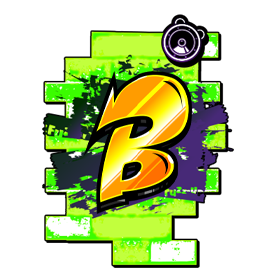
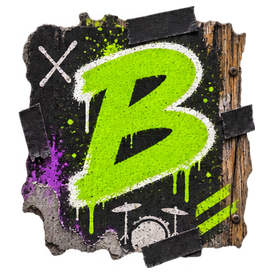
スキンの KONAMI の絵が入っていた画像を自前の素材（スプレーの絵柄）に置き換える
第 1 段階として、GITADORA の絵やロゴが入っていた 23 ファイルを、
画像生成 AI で作った自前の絵に置き換えた。配置・大きさ・ファイル名は
今のままで、コードは変えていない。

- 背景、タイトルのロゴ「DTXmaniaNXT」とメニューの板、シャッター、
  STAGE FAILED の扉、ランク SS〜E、選曲の飾りの紙、ジャケットの代わり、
  並べ替えの「おすすめ」のアイコン
- 読み込みの注意書きと終了の文は自前の文にした
- 使っていなかった KONAMI の絵の入った 8 ファイルを消した
- 生成の指示文・費用は tools/skin/prompts.json、組み立ては
  tools/skin/build_stage1.py（同じ元の絵から同じファイルができる）
- 新しい素材は CC BY 4.0。assets/README.md に範囲と作り方、
  残っている NX v2.0 の素材の扱いを書いた

Claude-Session: https://claude.ai/code/session_0141xt89H6Ka2PYgHr5bWxoa

diff --git a/tools/skin/build_stage1.py b/tools/skin/build_stage1.py
@@ -1,0 +1,185 @@
+"""生成した絵から、第 1 段階のスキンのファイル（assets/skin/Graphics の 23 個）を組む。
+生成の費用はかからない（切り抜き・縮小・文字入れだけ）。
+使い方: python3 tools/skin/build_stage1.py <生成した絵の dir> <生成した絵の dir> assets/skin/Graphics
+生成した絵の名前は prompts.json の name に .png を付けたもの（bg_a.png、ranks.png など）。
+文字は IPA ゴシック（fonts-ipafont-gothic）と Inter で描く。
+"""
+import sys, os
+import numpy as np
+from PIL import Image, ImageFilter, ImageEnhance, ImageDraw, ImageFont
+
+GEN, GEN2, OUT = sys.argv[1:4]
+os.makedirs(os.path.join(OUT, 'SongSelect'), exist_ok=True)
+os.makedirs(os.path.join(OUT, 'Sorting'), exist_ok=True)
+JP = '/usr/share/fonts/truetype/fonts-japanese-gothic.ttf'
+
+def font(path, size):
+    return ImageFont.truetype(path, size)
+
+def en_font(size):
+    import subprocess
+    p = subprocess.run(['fc-match', '-f', '%{file}', 'Inter:semibold'], capture_output=True, text=True).stdout
+    return ImageFont.truetype(p, size)
+
+def save(im, rel, **kw):
+    p = os.path.join(OUT, rel)
+    if rel.endswith('.jpg'):
+        im.convert('RGB').save(p, quality=90, optimize=True)
+    else:
+        im.save(p, optimize=True)
+
+def xy_cut(alpha, thr=48, min_area=400):
+    """透明の地に置かれた部品を、つながった塊ごとに切り出す。上の行から、行の中は左から"""
+    from collections import deque
+    k = 4
+    a = np.asarray(alpha.resize((alpha.width // k, alpha.height // k), Image.BOX)) > thr
+    h, w = a.shape
+    seen = np.zeros_like(a)
+    boxes = []
+    for y in range(h):
+        for x in range(w):
+            if a[y, x] and not seen[y, x]:
+                q = deque([(y, x)]); seen[y, x] = True
+                y0 = y1 = y; x0 = x1 = x; n = 0
+                while q:
+                    cy, cx = q.popleft(); n += 1
+                    y0, y1, x0, x1 = min(y0, cy), max(y1, cy), min(x0, cx), max(x1, cx)
+                    for dy in (-1, 0, 1):
+                        for dx in (-1, 0, 1):
+                            ny, nx = cy + dy, cx + dx
+                            if 0 <= ny < h and 0 <= nx < w and a[ny, nx] and not seen[ny, nx]:
+                                seen[ny, nx] = True; q.append((ny, nx))
+                if n * k * k >= min_area:
+                    boxes.append([x0 * k, y0 * k, (x1 + 1) * k, (y1 + 1) * k])
+    # 大きな塊に含まれる小さな塊（しぶき）は親に吸収する
+    boxes.sort(key=lambda b: -(b[2] - b[0]) * (b[3] - b[1]))
+    big = []
+    for b in boxes:
+        cx, cy = (b[0] + b[2]) / 2, (b[1] + b[3]) / 2
+        host = next((g for g in big if g[0] - 40 <= cx <= g[2] + 40 and g[1] - 40 <= cy <= g[3] + 40), None)
+        if host:
+            host[0], host[1] = min(host[0], b[0]), min(host[1], b[1]); host[2], host[3] = max(host[2], b[2]), max(host[3], b[3])
+        elif (b[2] - b[0]) * (b[3] - b[1]) >= 60000:
+            big.append(b)
+    # 行に分けて並べる
+    big.sort(key=lambda b: b[1])
+    rows = []
+    for b in big:
+        if rows and b[1] < max(r[3] for r in rows[-1]) - 40:
+            rows[-1].append(b)
+        else:
+            rows.append([b])
+    return [tuple(b) for r in rows for b in sorted(r, key=lambda b: b[0])]
+
+def fit(im, w, h):
+    r = min(w / im.width, h / im.height)
+    return im.resize((max(1, round(im.width * r)), max(1, round(im.height * r))), Image.LANCZOS)
+
+def outlined(draw, xy, text, f, fill, stroke=(0, 0, 0), sw=3, anchor='la'):
+    draw.text(xy, text, font=f, fill=fill, stroke_width=sw, stroke_fill=stroke, anchor=anchor)
+
+# 背景
+bg = Image.open(os.path.join(GEN, 'bg_a.png')).convert('RGB').crop((0, 80, 1536, 944)).resize((1280, 720), Image.LANCZOS)
+soft = ImageEnhance.Brightness(bg.filter(ImageFilter.GaussianBlur(2.5))).enhance(0.85)
+dim = ImageEnhance.Brightness(bg.filter(ImageFilter.GaussianBlur(7))).enhance(0.72)
+save(bg, '1_background.jpg'); save(bg, '2_background.jpg')
+for n in ['5_background.jpg', '7_background.jpg', '8_background.jpg']:
+    save(soft, n)
+
+# 部品の切り出し
+parts_im = Image.open(os.path.join(GEN2, 'parts.png')).convert('RGBA')
+pb = xy_cut(parts_im.getchannel('A'))
+assert len(pb) == 4, pb
+strip, poster, plate, badge = [parts_im.crop(b) for b in pb]
+words_im = Image.open(os.path.join(GEN2, 'words.png')).convert('RGBA')
+wb = xy_cut(words_im.getchannel('A'))
+assert len(wb) == 3, wb
+thanks, back_w, random_w = [words_im.crop(b) for b in wb]
+
+# タイトルのロゴとメニューの板（2_background.png は透明の上に重ねる 1 枚）
+logo = Image.open(os.path.join(GEN, 'logo_a.png')).convert('RGBA')
+logo = logo.crop(logo.getchannel('A').point(lambda a: 255 if a > 8 else 0).getbbox())
+t = Image.new('RGBA', (1280, 720), (0, 0, 0, 0))
+L = fit(logo, 1040, 400)
+t.alpha_composite(L, (640 - L.width // 2, 250 - L.height // 2))
+# 板は横長すぎるので、高さを合わせてから真ん中を抜いて左右をつなぐ（木目は横向きなので継ぎ目が目立たない）
+PW, PH = 324, 154
+p = plate.resize((round(plate.width * PH / plate.height), PH), Image.LANCZOS)
+half, blend = PW // 2, 24
+left = p.crop((0, 0, half + blend, PH)); right = p.crop((p.width - half - blend, 0, p.width, PH))
+plate_out = Image.new('RGBA', (PW, PH), (0, 0, 0, 0))
+plate_out.alpha_composite(right, (PW - right.width, 0))
+mask = Image.new('L', (left.width, PH), 255)
+md = ImageDraw.Draw(mask)
+for i in range(blend * 2):
+    md.line([(left.width - 1 - i, 0), (left.width - 1 - i, PH)], fill=int(255 * (i / (blend * 2))))
+plate_out.paste(left, (0, 0), Image.composite(left, Image.new('RGBA', left.size, (0, 0, 0, 0)), mask).getchannel('A'))
+t.alpha_composite(plate_out, (458, 494))
+save(t, '2_background.png')
+
+# ランク（7 枚で 1 組、各 274 角）
+ranks_im = Image.open(os.path.join(GEN2, 'ranks.png')).convert('RGBA')
+rb = xy_cut(ranks_im.getchannel('A'))
+assert len(rb) == 7, rb
+for name, b in zip(['SS', 'S', 'A', 'B', 'C', 'D', 'E'], rb):
+    e = fit(ranks_im.crop(b), 262, 262)
+    c = Image.new('RGBA', (274, 274), (0, 0, 0, 0))
+    c.alpha_composite(e, ((274 - e.width) // 2, (274 - e.height) // 2))
+    save(c, f'8_rank{name}.png')
+
+# シャッター（558×720、上下の端まで絵）
+sh = Image.open(os.path.join(GEN2, 'shutter.png')).convert('RGB')
+h = round(sh.width * 720 / 558)
+sh = sh.crop((0, (sh.height - h) // 2, sh.width, (sh.height - h) // 2 + h)).resize((558, 720), Image.LANCZOS)
+save(sh, '7_shutter.png')
+
+# STAGE FAILED（左右の扉の継ぎ目が x=640）
+fl = Image.open(os.path.join(GEN2, 'failed.png')).convert('RGB').crop((0, 80, 1536, 944)).resize((1280, 720), Image.LANCZOS)
+save(fl, '7_stage_failed.jpg')
+
+# 選曲の左の飾りの紙
+save(strip.resize((362, 134), Image.LANCZOS), 'SongSelect/back1.png')
+save(poster.resize((495, 529), Image.LANCZOS), 'SongSelect/back2.png')
+
+# 並べ替えのアイコン「おすすめ」（90×70。ほかの 9 個は第 3 段階）
+ic = Image.new('RGBA', (90, 70), (0, 0, 0, 0))
+bd = fit(badge, 50, 50)
+ic.alpha_composite(bd, (45 - bd.width // 2, 2))
+d = ImageDraw.Draw(ic)
+outlined(d, (45, 60), 'Recommended', en_font(12), (255, 226, 40), sw=2, anchor='mm')
+save(ic, 'Sorting/recommended.png')
+
+# ジャケットの代わり（400 角）
+def square(box, dark=0.75, blur=1.5):
+    s = bg.crop(box).resize((400, 400), Image.LANCZOS).filter(ImageFilter.GaussianBlur(blur))
+    return ImageEnhance.Brightness(s).enhance(dark).convert('RGBA')
+sq = square((850, 290, 1280, 720), 0.8)
+L = fit(logo, 370, 300); sq.alpha_composite(L, (200 - L.width // 2, 200 - L.height // 2))
+save(sq.convert('RGB'), '5_preimage default.png')
+sq = square((0, 290, 430, 720), 0.7)
+W = fit(back_w, 360, 200); sq.alpha_composite(W, (200 - W.width // 2, 200 - W.height // 2))
+save(sq.convert('RGB'), '5_preimage backbox.png')
+sq = square((850, 0, 1280, 430), 0.7)
+W = fit(random_w, 360, 170); sq.alpha_composite(W, (200 - W.width // 2, 150 - W.height // 2))
+d = ImageDraw.Draw(sq)
+outlined(d, (200, 290), 'カテゴリー内', font(JP, 46), (255, 255, 255), sw=4, anchor='mm')
+save(sq.convert('RGB'), '5_preimage random.png')
+
+# 読み込み（注意書きは自前の文）
+ld = dim.convert('RGBA')
+ov = Image.new('RGBA', (1280, 720), (0, 0, 0, 0)); od = ImageDraw.Draw(ov)
+od.rectangle([191, 107, 483, 282], fill=(0, 0, 0, 150))
+od.rectangle([0, 508, 1280, 720], fill=(0, 0, 0, 150))
+ld.alpha_composite(ov)
+d = ImageDraw.Draw(ld)
+d.text((640, 585), '演奏の前に、スティックの届くところに人や物がないか確かめてください。', font=font(JP, 30), fill=(255, 255, 255), anchor='mm')
+d.text((640, 640), 'Before you play, make sure no one and nothing is within reach of your sticks.', font=en_font(24), fill=(220, 224, 235), anchor='mm')
+save(ld.convert('RGB'), '6_background.jpg')
+
+# 終了
+en = dim.convert('RGBA')
+T = fit(thanks, 780, 190); en.alpha_composite(T, (1250 - T.width, 18))
+d = ImageDraw.Draw(en)
+outlined(d, (1240, 18 + T.height + 26), 'ゲームが終了しました', font(JP, 30), (255, 226, 40), sw=3, anchor='rm')
+save(en.convert('RGB'), '9_background.jpg')
+print('ok', len(os.listdir(OUT)))

diff --git a/tools/skin/generate.py b/tools/skin/generate.py
@@ -1,0 +1,47 @@
+#!/usr/bin/env python3
+"""スキンの絵を OpenRouter の画像生成で 1 枚作る（費用がかかる）。
+
+使い方: OPENROUTER_API_KEY=... python3 tools/skin/generate.py <名前> <出力.png>
+<名前> は prompts.json の name。同じ指示文でも毎回ちがう絵になる。
+出力の横に、送った内容と費用（usage.cost）を .json で残す。
+"""
+import base64, json, os, sys, time, urllib.error, urllib.request
+
+HERE = os.path.dirname(os.path.abspath(__file__))
+
+
+def main():
+    name, out = sys.argv[1], sys.argv[2]
+    spec = next(p for p in json.load(open(os.path.join(HERE, "prompts.json"), encoding="utf-8")) if p["name"] == name)
+    body = {
+        "model": spec["model"],
+        "prompt": spec["prompt"],
+        "n": 1,
+        "size": spec["size"],
+        "quality": spec["quality"],
+        "output_format": "png",
+    }
+    if spec.get("background") == "transparent":
+        body["background"] = "transparent"
+    req = urllib.request.Request(
+        "https://openrouter.ai/api/v1/images",
+        data=json.dumps(body).encode(),
+        headers={"Authorization": "Bearer " + os.environ["OPENROUTER_API_KEY"], "Content-Type": "application/json"},
+        method="POST",
+    )
+    t = time.time()
+    try:
+        with urllib.request.urlopen(req, timeout=600) as r:
+            res = json.load(r)
+    except urllib.error.HTTPError as e:
+        sys.exit(f"HTTP {e.code}: {e.read().decode()[:2000]}")
+    with open(out, "wb") as f:
+        f.write(base64.b64decode(res["data"][0]["b64_json"]))
+    meta = {"request": body, "usage": res.get("usage"), "seconds": round(time.time() - t, 1)}
+    with open(out + ".json", "w", encoding="utf-8") as f:
+        json.dump(meta, f, ensure_ascii=False, indent=1)
+    print(out, (res.get("usage") or {}).get("cost"), "USD")
+
+
+if __name__ == "__main__":
+    main()

diff --git a/assets/README.md b/assets/README.md
@@ -1,19 +1,50 @@
-# DTXManiaNX v2.0 のスキン（`assets/skin`）
+# スキン（`assets/skin`）
 
-DTXmaniaNXT の画面の画像と効果音です。リリースのビルドではアプリ（exe）に埋め込むので、DTXManiaNX を持っていなくても、exe だけで NX v2.0 と同じ見た目で動きます（読み込みは `crates/app/src/skin.rs`）。
+DTXmaniaNXT の画面の画像と効果音です。リリースのビルドではアプリ（exe）に埋め込むので、exe だけで動きます（読み込みは `crates/app/src/skin.rs`）。DTXManiaNX v2.0 のスキンを元にしていて、段階を分けて自前の素材に置き換えています。
 
-## 出どころ
+## 置き換えの進み具合
+
+| 段階 | 範囲 | 今の状態 |
+|---|---|---|
+| 1 | KONAMI の「GITADORA」の絵やロゴが入っていた画像（背景、タイトルのロゴ、シャッター、STAGE FAILED、ランクなど） | 自前の素材に置き換え済み（下の 23 ファイル）。使っていなかった 8 ファイルは消した |
+| 2 | 効果音と声（`Sounds/` と `Graphics/Sorting/*.wav`） | DTXManiaNX v2.0 のまま |
+| 3 | そのほかの画像（判定の文字、ゲージ、パッド、並べ替えのアイコンなど） | DTXManiaNX v2.0 のまま |
+
+0.8.0 までのリリースと過去のコミットには、置き換える前の画像が入っています。
+
+## 自前の素材
+
+`Graphics/` の次の 23 ファイルは、DTXmaniaNXT のために作ったものです。
+
+- 背景: `1_background.jpg`、`2_background.jpg`、`5_background.jpg`、`6_background.jpg`、`7_background.jpg`、`8_background.jpg`、`9_background.jpg`
+- タイトルのロゴとメニューの板: `2_background.png`
+- ジャケットの代わり: `5_preimage default.png`、`5_preimage backbox.png`、`5_preimage random.png`
+- 演奏: `7_shutter.png`、`7_stage_failed.jpg`
+- 結果のランク: `8_rankSS.png`、`8_rankS.png`、`8_rankA.png`、`8_rankB.png`、`8_rankC.png`、`8_rankD.png`、`8_rankE.png`
+- 選曲: `SongSelect/back1.png`、`SongSelect/back2.png`、`Sorting/recommended.png`
+
+作り方:
+
+- 画像生成 AI（OpenAI の GPT Image 2.6 Sunburst を OpenRouter から使用、2026-11-22〜23）で 7 枚の絵を作り、それを切り抜き・縮小して、文字を足しました。指示文・日付・費用は `tools/skin/prompts.json`、組み立ては `tools/skin/build_stage1.py`、生成は `tools/skin/generate.py` です。
+- 指示文には既存のゲームや製品の名前を入れていません。既存のキャラクターやロゴに似せないように頼んでいます。
+- 足した文字（注意書き、「ゲームが終了しました」「カテゴリー内」「Recommended」）は IPA ゴシック（IPA フォントライセンス）と Inter（SIL Open Font License）で描きました。フォントのファイルは入れていません。
+
+ライセンス: [CC BY 4.0](https://creativecommons.org/licenses/by/4.0/deed.ja)。使うときは「DTXmaniaNXT」と表記してください（例:「スキンの一部: DTXmaniaNXT（CC BY 4.0）」）。
+
+## DTXManiaNX v2.0 から写したもの
+
+上の 23 ファイルのほかは、DTXManiaNX v2.0 のスキンです。
 
 - [BocuD/DTXmaniaNX](https://github.com/BocuD/DTXmaniaNX)（DTXManiaNX v2.0）のタグ `V2.0.0-20260121-5`（コミット `76c2c35`、v2.0.0 Beta 20260121）の `Runtime/System`（`Graphics` と `Sounds`）を、中身を変えずにそのまま写したものです。
 - 入れていないもの: 背景の動画（`Graphics/5_background.mp4` と `Graphics/2_background.mp4`。同じ 60 秒の動画で 1 つ 75 MB）と、Windows が作る `Thumbs.db`・`desktop.ini`。動画の代わりに、選曲とタイトルは静止画（`5_background.jpg`・`2_background.jpg`）を出します。
-- BocuD/DTXmaniaNX は [limyz/DTXmaniaNX](https://github.com/limyz/DTXmaniaNX) 1.4.2 からのフォークで、DTXManiaNX は DTXMania（DTXMania Group）から DTXManiaXG verK などを経て続くフォークです。このスキンも、それらの作者が作り、受け継いできたものです。0.2.0 までは limyz 版の `Runtime/System`（このリポジトリの `master` ブランチのコミット `9cdabe2`）を入れていました。
+- BocuD/DTXmaniaNX は [limyz/DTXmaniaNX](https://github.com/limyz/DTXmaniaNX) 1.4.2 からのフォークで、DTXManiaNX は DTXMania（DTXMania Group）から DTXManiaXG verK などを経て続くフォークです。0.2.0 までは limyz 版の `Runtime/System`（このリポジトリの `master` ブランチのコミット `9cdabe2`）を入れていました。
 - 上流に入っていた DTXMania の著作権の表記: Copyright (C) 2000 2010 DTXMania Group
 
-## 権利とライセンス
+権利:
 
-- このフォルダのファイルには、このリポジトリの MIT ライセンス（`LICENSE`）は及びません。権利はそれぞれの作者にあります。
+- これらのファイルには、このリポジトリの MIT ライセンス（`LICENSE`）も、上の CC BY 4.0 も及びません。権利は元の作者にありますが、個々の絵や音の作者の記録はありません。
 - 上流の DTXManiaNX のリポジトリ（limyz 版、BocuD 版とも）には、ライセンスの記載がありません。上流の `Runtime/Licenses/dtxmania.txt`（DTXMania Group の使用許諾）は、DTXMania のソフトウェアについてのものです。
-- 画面のデザインは KONAMI の「GITADORA」シリーズに倣ったもので、「GITADORA」「FUZZ-UP」「Tri-Boost」の名前やロゴを含む画像があります。「GITADORA」は株式会社コナミデジタルエンタテインメントの商標です。このアプリは KONAMI とは関係ありません。
+- 残っている画面の部品には、KONAMI の「GITADORA」シリーズの画面に似せたものがあります（判定の文字、ゲージ、パッドなど）。音とあわせて、段階 2・3 で置き換えます。「GITADORA」は株式会社コナミデジタルエンタテインメントの商標です。このアプリは KONAMI とは関係ありません。
 - 権利をお持ちの方から求めがあれば、取り下げます。[Issue](https://github.com/check5004/DTXmaniaNXT/issues) でお知らせください。
 
 ## 差し替えるとき

diff --git a/CLAUDE.md b/CLAUDE.md
@@ -4,6 +4,7 @@
 - 画面に出す文は英語と日本語の両方を書く（既定は英語）。`i18n::t("Back", "戻る")`、format の形は `i18n::tf!("{n} bars", "{n} 小節")`、表に置く文は `i18n::tr("Back", "戻る")`（どれも英語が先）。英語は直訳にせず、英語のゲームで普通の短い言い方にする（項目名・ボタン・見出しは Title Case）。ログ・コメント・テストの文は日本語のままでよい。詳しくは `crates/i18n/src/lib.rs`。
 - `main` が新しい Rust 実装（上流の履歴なし）。`master` は上流 limyz/DTXmaniaNX の C# 版で、読むだけの参考。上流のコードは `main` に持ち込まない（上流に LICENSE が無いため）。
 - 例外として、上流のスキン（`Runtime/System` の画像と音）は `assets/skin` にそのまま入れて exe に埋め込む（ユーザーの判断、2026-11-22）。ユーザーに NX を持たせる前提の設定や仕組みは作らない。出どころと扱いは `assets/README.md`。
+- スキンは段階を分けて自前の素材に置き換えている（1 KONAMI の絵が入っていた画像 → 2 音 → 3 そのほか）。自前の素材は CC BY 4.0。画像生成の指示文に既存のゲームや製品の名前を入れない。生成の指示文と組み立ては `tools/skin/`、進み具合は `assets/README.md`。
 - PR は必ずこのリポジトリ（check5004/DTXmaniaNXT）の `main` 宛てに出す。フォークなので既定の送り先が上流になりやすい。
 - 確かめは `cargo fmt --all --check`、`cargo clippy --all-targets -- -D warnings`、`cargo test --all`。
 - DTX の読み方は上流のふるまいと DTX Web Editor（check5004/dtx-mania-web-editor の `src/dtx`）に合わせる。読み方を変えたら `testdata/charts` に譜面と手計算の正解を足す。
